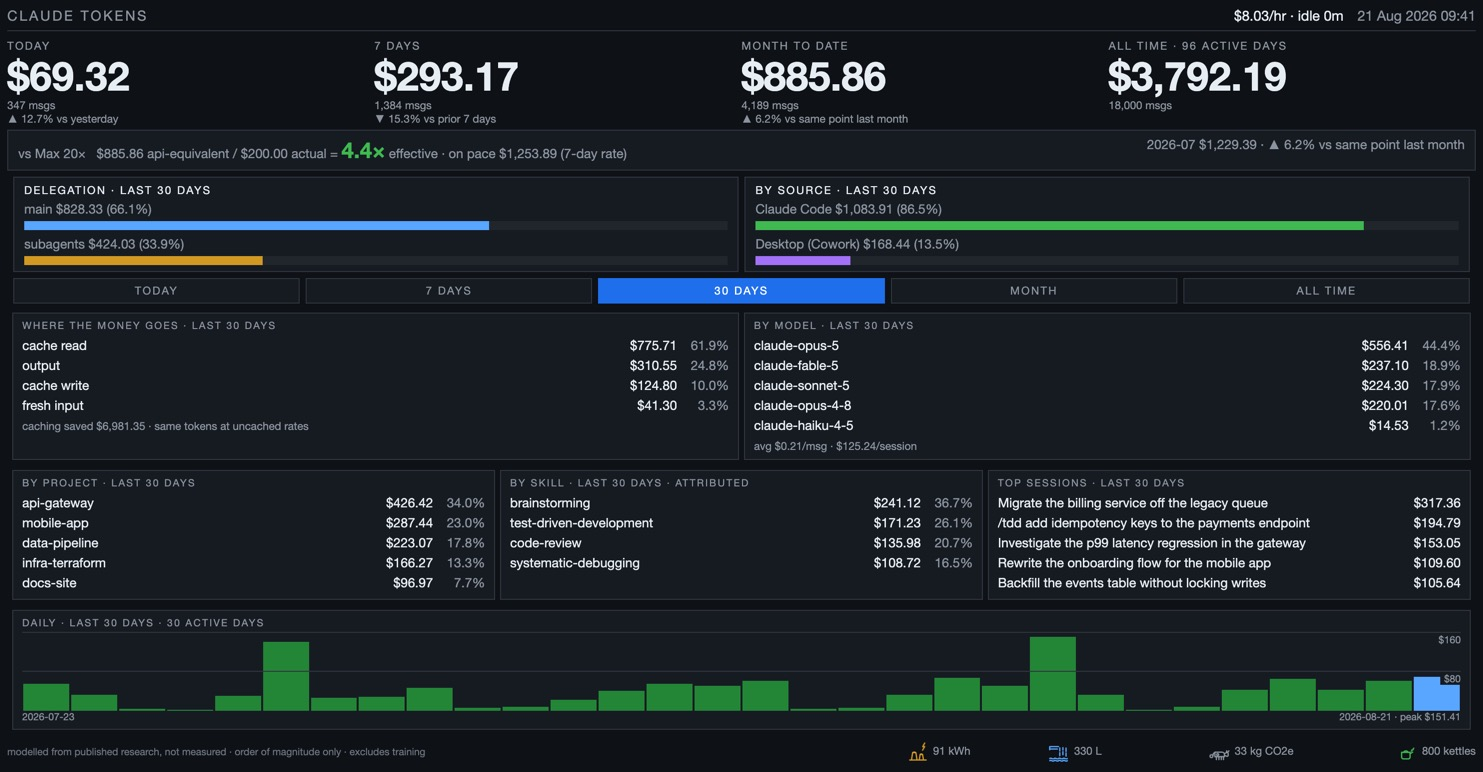
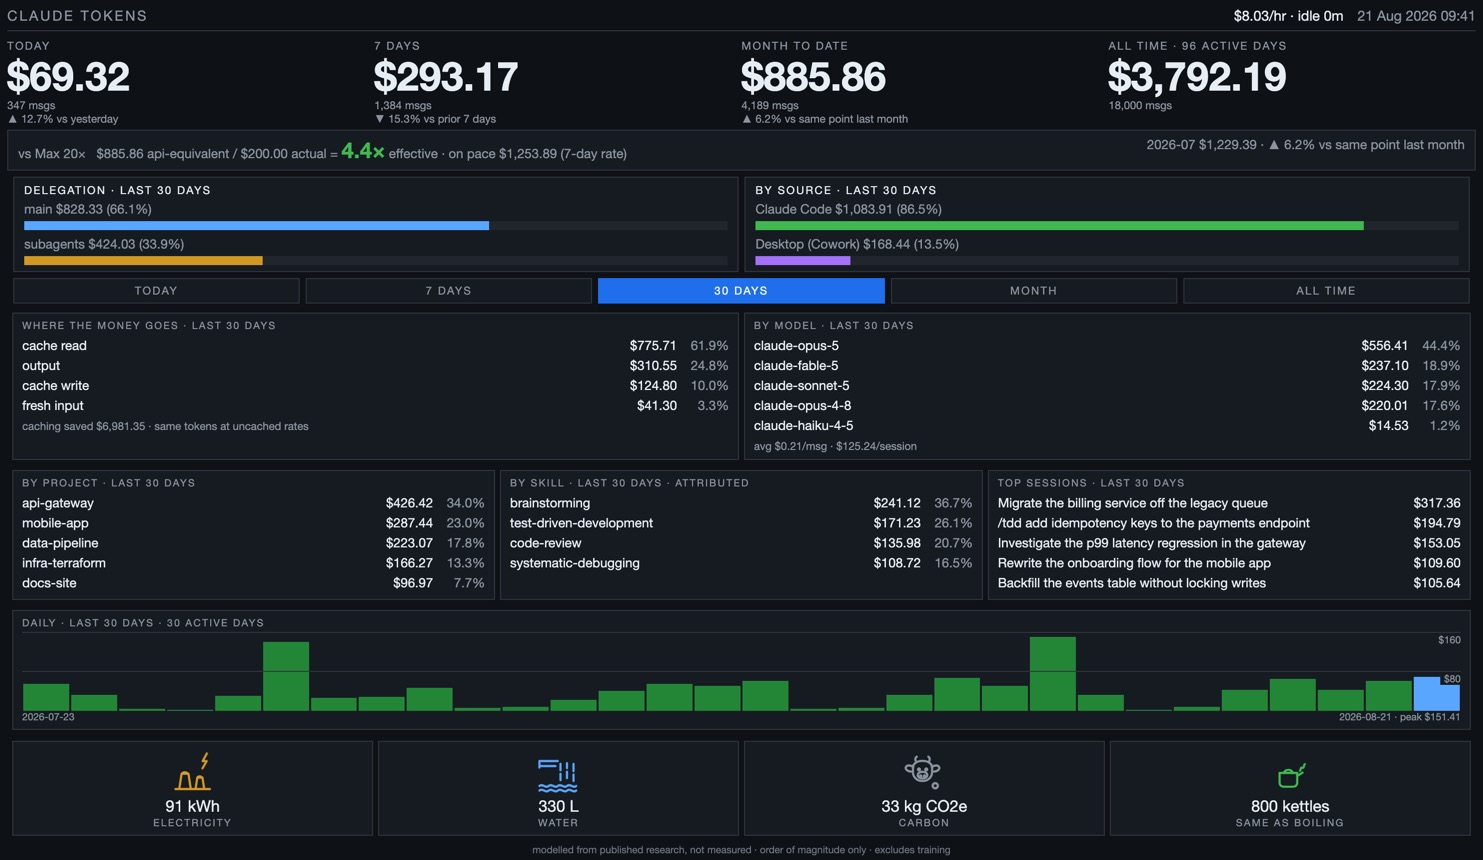
Give each footprint quantity a card and a drawing you can actually see
Four equal cards across the bottom, centre aligned, icons 22px -> 46px,
each with its value and a label. At 22px the drawings were a smudge beside
a number; at 46px they are pictures.

The cow was redrawn twice. Side-on it read as a beetle, then as a hippo —
thin legs and a small head simply vanish at icon size. It is now a head,
face on: ears, horns, eyes, muzzle with nostrils, which survive scaling.
The puff moved to its mouth, because roughly 95% of cattle methane is
belched rather than farted and the accurate version is no less funny.

This breaks the fold, and the README now says so instead of claiming
otherwise. Measured at 1024 wide: 748px before, 840px now, against a 768px
screen. Everything through the daily chart still fits; the cards sit below
it. A compact variant — 34px icons, no labels — measures 815px, so it
sacrifices the legibility this change was for and still does not fit. Given
that, the bigger version is the better trade, and the spec already treats
the fold as soft.

Claude-Session: https://claude.ai/code/session_013xSMFUf1Xu7BGjZfdm5wnH

diff --git a/tests/fixtures/golden_dashboard.html b/tests/fixtures/golden_dashboard.html
@@ -83,11 +83,16 @@ table.daily { position:relative; z-index:1; }
    animation does not run at all, every frame after the first stays hidden
    and you are left with a static line drawing, which is a perfectly good
    outcome and the reason this approach was chosen over a GIF. */
-table.fpstrip { width:100%; border-collapse:collapse; margin-top:6px; }
-.fpnote { font-size:10px; color:#6e7681; text-align:left; vertical-align:middle; }
-.fpitem { font-size:11px; color:#8b949e; text-align:right; vertical-align:middle;
-          white-space:nowrap; padding-left:14px; }
-.fpicon { vertical-align:middle; margin-right:4px; }
+/* Four equal cards, matching the panel chrome above them so the row reads
+   as part of the page rather than as a badge strip bolted on. */
+table.fpstrip { width:100%; table-layout:fixed; border-collapse:separate;
+                border-spacing:5px; margin-top:1px; }
+td.fpcard { background:#161b22; border:1px solid #30363d; padding:7px 4px 6px 4px;
+            text-align:center; vertical-align:top; }
+.fpvalue { font-size:16px; color:#e6edf3; margin-top:2px; white-space:nowrap; }
+.fplabel { font-size:10px; letter-spacing:1.5px; color:#8b949e; margin-top:1px; }
+.fpnote { font-size:10px; color:#6e7681; text-align:center; margin-top:3px; }
+.fpicon { display:block; margin:0 auto; }
 .fpf { opacity:0; }
 .fpf1 { opacity:1; -webkit-animation:fpcycle 1.5s steps(1,end) infinite;
         animation:fpcycle 1.5s steps(1,end) infinite; }
@@ -138,5 +143,5 @@ $41.15/session</div><div class="note">1 unpriced model(s), counted but not coste
 <table class="grid"><tbody>
 <tr><td><h2>DAILY &middot; LAST 30 DAYS &middot; 3 ACTIVE DAYS</h2><div class="chartwrap" style="height:78px"><div class="gridline" style="bottom:39px"><span class="glabel">$15</span></div><div class="gridline" style="bottom:78px"><span class="glabel">$30</span></div><table class="daily" style="height:78px"><tr><td><div class="col" style="height:26px"></div></td><td><div class="col" style="height:66px"></div></td><td><div class="col" style="height:32px"></div></td></tr></table></div><div class="dscale">2026-07-28<span style="float:right">2026-07-30 &middot; peak $25.50</span></div></td></tr>
 </tbody></table>
-<table class="fpstrip"><tbody><tr><td class="fpnote">modelled from published research, not measured &middot; order of magnitude only &middot; excludes training</td><td class="fpitem"><svg class="fpicon" width="22" height="22" viewBox="0 0 24 24" fill="none" stroke="#d29922" stroke-width="1.4" stroke-linecap="round" stroke-linejoin="round" aria-hidden="true"><path d="M3 21h18M5 21l1.2-8h3.6L11 21M13.5 21l.9-6h2.7l.9 6"/><path d="M6.4 13c.6-1 2.4-1 3 0M14.4 15c.5-.8 1.9-.8 2.4 0"/><g class="fpf fpf1"><path d="M19 2l-2.6 4.4h2.4L16.4 11"/></g><g class="fpf fpf2"><path d="M19.4 2.4l-2.2 4h2.1l-2.2 3.8"/></g></svg>2.4 kWh</td><td class="fpitem"><svg class="fpicon" width="22" height="22" viewBox="0 0 24 24" fill="none" stroke="#58a6ff" stroke-width="1.4" stroke-linecap="round" stroke-linejoin="round" aria-hidden="true"><path d="M2 6.4h9.6M2 9h8.4M2 6.4v3.4"/><path d="M2 19.4c1.6-1.5 3.2 1.5 4.8 0s3.2 1.5 4.8 0 3.2 1.5 4.8 0s3.2 1.5 4.8 0"/><path d="M2 21.8c1.6-1.5 3.2 1.5 4.8 0s3.2 1.5 4.8 0 3.2 1.5 4.8 0s3.2 1.5 4.8 0"/><g class="fpf fpf1"><path d="M13 6.6v3.4M16.4 6.6v2.6M19.8 6.6v3.8M13 11.8v3.4M16.4 11v3.4M19.8 12.2v3.4"/></g><g class="fpf fpf2"><path d="M13 7.8v3.4M16.4 7.5v2.6M19.8 7.9v3.8M13 13v3.4M16.4 11.9v3.4M19.8 13.4v3.4"/></g><g class="fpf fpf3"><path d="M13 9v3.4M16.4 8.4v2.6M19.8 9.2v3.8M13 14.2v3.4M16.4 12.8v3.4M19.8 14.6v3.4"/></g></svg>8.7 L</td><td class="fpitem"><svg class="fpicon" width="22" height="22" viewBox="0 0 24 24" fill="none" stroke="#8b949e" stroke-width="1.4" stroke-linecap="round" stroke-linejoin="round" aria-hidden="true"><path d="M6.6 12.4h7.8a2.6 2.6 0 0 1 2.6 2.6v2.4H6.6z"/><path d="M17 14l2.6-1.1a1.1 1.1 0 0 1 1.5 1v2a1.1 1.1 0 0 1-1.5 1L17 15.9M19.1 12.6l.5-1.6M20.9 12.2l1-1.2"/><path d="M8.2 17.4v3.2M11 17.4v3.2M13.6 17.4v3.2M16 17.4v3.2"/><path d="M6.6 12.8c-1.4.3-2.1 1.6-1.8 2.9"/><path d="M9.6 14a1.1 1.1 0 1 0 .1 0"/><g class="fpf fpf1"><path d="M3.6 16.4a1 1 0 1 0 .1 0"/></g><g class="fpf fpf2"><path d="M2.8 15.2a1.6 1.6 0 1 0 .1 0"/></g><g class="fpf fpf3"><path d="M2 13.8a2.2 2.2 0 1 0 .1 0"/></g></svg>884 g CO2e</td><td class="fpitem"><svg class="fpicon" width="22" height="22" viewBox="0 0 24 24" fill="none" stroke="#3fb950" stroke-width="1.4" stroke-linecap="round" stroke-linejoin="round" aria-hidden="true"><path d="M6.4 12.6h9.2v5.2a2 2 0 0 1-2 2H8.4a2 2 0 0 1-2-2z"/><path d="M8.6 12.6a2.6 2.6 0 0 1 4.8 0M15.6 14.2l2.8-1.8"/><g class="fpf fpf1"><path d="M18.6 11c.9-.6.1-1.4 1-2"/></g><g class="fpf fpf2"><path d="M18.6 10c.9-.6.1-1.4 1-2M17 11.4c.7-.5.1-1.1.8-1.6"/></g><g class="fpf fpf3"><path d="M18.6 9c.9-.6.1-1.4 1-2M17 10.4c.7-.5.1-1.1.8-1.6"/></g></svg>20 kettles</td></tr></tbody></table>
+<table class="fpstrip"><tbody><tr><td class="fpcard"><svg class="fpicon" width="46" height="46" viewBox="0 0 24 24" fill="none" stroke="#d29922" stroke-width="1.15" stroke-linecap="round" stroke-linejoin="round" aria-hidden="true"><path d="M3 21h18M5 21l1.2-8h3.6L11 21M13.5 21l.9-6h2.7l.9 6"/><path d="M6.4 13c.6-1 2.4-1 3 0M14.4 15c.5-.8 1.9-.8 2.4 0"/><g class="fpf fpf1"><path d="M19 2l-2.6 4.4h2.4L16.4 11"/></g><g class="fpf fpf2"><path d="M19.4 2.4l-2.2 4h2.1l-2.2 3.8"/></g></svg><div class="fpvalue">2.4 kWh</div><div class="fplabel">ELECTRICITY</div></td><td class="fpcard"><svg class="fpicon" width="46" height="46" viewBox="0 0 24 24" fill="none" stroke="#58a6ff" stroke-width="1.15" stroke-linecap="round" stroke-linejoin="round" aria-hidden="true"><path d="M2 6.4h9.6M2 9h8.4M2 6.4v3.4"/><path d="M2 19.4c1.6-1.5 3.2 1.5 4.8 0s3.2 1.5 4.8 0 3.2 1.5 4.8 0s3.2 1.5 4.8 0"/><path d="M2 21.8c1.6-1.5 3.2 1.5 4.8 0s3.2 1.5 4.8 0 3.2 1.5 4.8 0s3.2 1.5 4.8 0"/><g class="fpf fpf1"><path d="M13 6.6v3.4M16.4 6.6v2.6M19.8 6.6v3.8M13 11.8v3.4M16.4 11v3.4M19.8 12.2v3.4"/></g><g class="fpf fpf2"><path d="M13 7.8v3.4M16.4 7.5v2.6M19.8 7.9v3.8M13 13v3.4M16.4 11.9v3.4M19.8 13.4v3.4"/></g><g class="fpf fpf3"><path d="M13 9v3.4M16.4 8.4v2.6M19.8 9.2v3.8M13 14.2v3.4M16.4 12.8v3.4M19.8 14.6v3.4"/></g></svg><div class="fpvalue">8.7 L</div><div class="fplabel">WATER</div></td><td class="fpcard"><svg class="fpicon" width="46" height="46" viewBox="0 0 24 24" fill="none" stroke="#8b949e" stroke-width="1.15" stroke-linecap="round" stroke-linejoin="round" aria-hidden="true"><path d="M6 9.8c0-2.1 2.2-3.5 5-3.5s5 1.4 5 3.5v2.3c0 2.7-2.2 4.7-5 4.7s-5-2-5-4.7z"/><path d="M6.2 9.4c-1.9-1.1-3.5-.9-3.9.2s.8 2.1 2.7 2.3"/><path d="M15.8 9.4c1.9-1.1 3.5-.9 3.9.2s-.8 2.1-2.7 2.3"/><path d="M7.7 6.9c-.7-1.3-.5-2.3.3-2.8M14.3 6.9c.7-1.3.5-2.3-.3-2.8"/><path d="M9.1 10.3a.5 .5 0 1 0 .1 0M12.9 10.3a.5 .5 0 1 0 .1 0"/><path d="M8.5 13.7c0-1 1.1-1.7 2.5-1.7s2.5.7 2.5 1.7-1.1 1.8-2.5 1.8-2.5-.8-2.5-1.8z"/><path d="M10 13.9a.35 .35 0 1 0 .1 0M12 13.9a.35 .35 0 1 0 .1 0"/><g class="fpf fpf1"><path d="M15.6 17.6a.85 .85 0 1 0 .1 0"/></g><g class="fpf fpf2"><path d="M17.6 17.9a1.35 1.35 0 1 0 .1 0"/></g><g class="fpf fpf3"><path d="M19.9 17.5a1.95 1.95 0 1 0 .1 0"/></g></svg><div class="fpvalue">884 g CO2e</div><div class="fplabel">CARBON</div></td><td class="fpcard"><svg class="fpicon" width="46" height="46" viewBox="0 0 24 24" fill="none" stroke="#3fb950" stroke-width="1.15" stroke-linecap="round" stroke-linejoin="round" aria-hidden="true"><path d="M6.4 12.6h9.2v5.2a2 2 0 0 1-2 2H8.4a2 2 0 0 1-2-2z"/><path d="M8.6 12.6a2.6 2.6 0 0 1 4.8 0M15.6 14.2l2.8-1.8"/><g class="fpf fpf1"><path d="M18.6 11c.9-.6.1-1.4 1-2"/></g><g class="fpf fpf2"><path d="M18.6 10c.9-.6.1-1.4 1-2M17 11.4c.7-.5.1-1.1.8-1.6"/></g><g class="fpf fpf3"><path d="M18.6 9c.9-.6.1-1.4 1-2M17 10.4c.7-.5.1-1.1.8-1.6"/></g></svg><div class="fpvalue">20 kettles</div><div class="fplabel">SAME AS BOILING</div></td></tr></tbody></table><div class="fpnote">modelled from published research, not measured &middot; order of magnitude only &middot; excludes training</div>
 </body></html>

diff --git a/dashboard/render_html.py b/dashboard/render_html.py
@@ -101,11 +101,16 @@ table.daily { position:relative; z-index:1; }
    animation does not run at all, every frame after the first stays hidden
    and you are left with a static line drawing, which is a perfectly good
    outcome and the reason this approach was chosen over a GIF. */
-table.fpstrip { width:100%; border-collapse:collapse; margin-top:6px; }
-.fpnote { font-size:10px; color:#6e7681; text-align:left; vertical-align:middle; }
-.fpitem { font-size:11px; color:#8b949e; text-align:right; vertical-align:middle;
-          white-space:nowrap; padding-left:14px; }
-.fpicon { vertical-align:middle; margin-right:4px; }
+/* Four equal cards, matching the panel chrome above them so the row reads
+   as part of the page rather than as a badge strip bolted on. */
+table.fpstrip { width:100%; table-layout:fixed; border-collapse:separate;
+                border-spacing:5px; margin-top:1px; }
+td.fpcard { background:#161b22; border:1px solid #30363d; padding:7px 4px 6px 4px;
+            text-align:center; vertical-align:top; }
+.fpvalue { font-size:16px; color:#e6edf3; margin-top:2px; white-space:nowrap; }
+.fplabel { font-size:10px; letter-spacing:1.5px; color:#8b949e; margin-top:1px; }
+.fpnote { font-size:10px; color:#6e7681; text-align:center; margin-top:3px; }
+.fpicon { display:block; margin:0 auto; }
 .fpf { opacity:0; }
 .fpf1 { opacity:1; -webkit-animation:fpcycle 1.5s steps(1,end) infinite;
         animation:fpcycle 1.5s steps(1,end) infinite; }
@@ -436,16 +441,24 @@ _ICONS = {
     # flank is doing most of the work of saying "cow" at 22 pixels.
     "carbon": (
         "#8b949e",
-        '<path d="M6.6 12.4h7.8a2.6 2.6 0 0 1 2.6 2.6v2.4H6.6z"/>'
-        '<path d="M17 14l2.6-1.1a1.1 1.1 0 0 1 1.5 1v2a1.1 1.1 0 0 1-1.5 1'
-        'L17 15.9M19.1 12.6l.5-1.6M20.9 12.2l1-1.2"/>'
-        '<path d="M8.2 17.4v3.2M11 17.4v3.2M13.6 17.4v3.2M16 17.4v3.2"/>'
-        '<path d="M6.6 12.8c-1.4.3-2.1 1.6-1.8 2.9"/>'
-        '<path d="M9.6 14a1.1 1.1 0 1 0 .1 0"/>',
+        # A cow's head, face on. The side view read as a hippo at this size —
+        # thin legs and a small head vanish, while ears, horns and a muzzle
+        # survive. The puff comes from the mouth rather than the other end
+        # because roughly 95% of cattle methane is belched, not farted, and
+        # the accurate version is no less funny.
+        '<path d="M6 9.8c0-2.1 2.2-3.5 5-3.5s5 1.4 5 3.5v2.3c0 2.7-2.2 4.7-5 4.7'
+        's-5-2-5-4.7z"/>'
+        '<path d="M6.2 9.4c-1.9-1.1-3.5-.9-3.9.2s.8 2.1 2.7 2.3"/>'
+        '<path d="M15.8 9.4c1.9-1.1 3.5-.9 3.9.2s-.8 2.1-2.7 2.3"/>'
+        '<path d="M7.7 6.9c-.7-1.3-.5-2.3.3-2.8M14.3 6.9c.7-1.3.5-2.3-.3-2.8"/>'
+        '<path d="M9.1 10.3a.5 .5 0 1 0 .1 0M12.9 10.3a.5 .5 0 1 0 .1 0"/>'
+        '<path d="M8.5 13.7c0-1 1.1-1.7 2.5-1.7s2.5.7 2.5 1.7-1.1 1.8-2.5 1.8'
+        "-2.5-.8-2.5-1.8z\"/>"
+        '<path d="M10 13.9a.35 .35 0 1 0 .1 0M12 13.9a.35 .35 0 1 0 .1 0"/>',
         (
-            '<path d="M3.6 16.4a1 1 0 1 0 .1 0"/>',
-            '<path d="M2.8 15.2a1.6 1.6 0 1 0 .1 0"/>',
-            '<path d="M2 13.8a2.2 2.2 0 1 0 .1 0"/>',
+            '<path d="M15.6 17.6a.85 .85 0 1 0 .1 0"/>',
+            '<path d="M17.6 17.9a1.35 1.35 0 1 0 .1 0"/>',
+            '<path d="M19.9 17.5a1.95 1.95 0 1 0 .1 0"/>',
         ),
     ),
     # A kettle with steam climbing off the spout.
@@ -462,6 +475,12 @@ _ICONS = {
 }
 
 
+#: Rendered size of a footprint drawing. Large enough to be readable as a
+#: picture from across a room rather than as a smudge next to a number —
+#: which is what 22px turned out to be.
+ICON_PX = 46
+
+
 def _icon(kind: str) -> str:
     colour, outline, frames = _ICONS[kind]
     animated = "".join(
@@ -469,9 +488,12 @@ def _icon(kind: str) -> str:
         for index, frame in enumerate(frames, start=1)
         if frame
     )
+    # Stroke width is in user units, so it scales with the box. 1.15 at 46px
+    # renders about 2.2 device px — a drawn line rather than a slab.
     return (
-        '<svg class="fpicon" width="22" height="22" viewBox="0 0 24 24" '
-        f'fill="none" stroke="{colour}" stroke-width="1.4" '
+        f'<svg class="fpicon" width="{ICON_PX}" height="{ICON_PX}" '
+        'viewBox="0 0 24 24" '
+        f'fill="none" stroke="{colour}" stroke-width="1.15" '
         'stroke-linecap="round" stroke-linejoin="round" '
         'aria-hidden="true">'
         f"{outline}{animated}</svg>"
@@ -509,19 +531,21 @@ def _footprint_note(view: RangeView) -> str:
         return ""
     boils = fp.kettle_boils
     items = (
-        ("energy", _one_sig_fig(fp.kwh, "kWh", "Wh", 1000)),
-        ("water", _one_sig_fig(fp.litres, "L", "mL", 1000)),
-        ("carbon", _one_sig_fig(fp.g_co2e / 1000, "kg CO2e", "g CO2e", 1000)),
-        ("kettle", _kettles(boils).replace(" boiled", "")),
+        ("energy", _one_sig_fig(fp.kwh, "kWh", "Wh", 1000), "ELECTRICITY"),
+        ("water", _one_sig_fig(fp.litres, "L", "mL", 1000), "WATER"),
+        ("carbon", _one_sig_fig(fp.g_co2e / 1000, "kg CO2e", "g CO2e", 1000), "CARBON"),
+        ("kettle", _kettles(boils).replace(" boiled", ""), "SAME AS BOILING"),
     )
     cells = "".join(
-        f'<td class="fpitem">{_icon(kind)}{value}</td>' for kind, value in items
+        f'<td class="fpcard">{_icon(kind)}'
+        f'<div class="fpvalue">{value}</div>'
+        f'<div class="fplabel">{label}</div></td>'
+        for kind, value, label in items
     )
     return (
-        '<table class="fpstrip"><tbody><tr>'
-        '<td class="fpnote">modelled from published research, not measured '
-        "&middot; order of magnitude only &middot; excludes training</td>"
-        f"{cells}</tr></tbody></table>"
+        f'<table class="fpstrip"><tbody><tr>{cells}</tr></tbody></table>'
+        '<div class="fpnote">modelled from published research, not measured '
+        "&middot; order of magnitude only &middot; excludes training</div>"
     )
 
 

diff --git a/tests/test_footprint.py b/tests/test_footprint.py
@@ -109,10 +109,7 @@ def test_an_unpriced_model_still_has_a_footprint():
 
 def _strip_values(out: str) -> list[str]:
     """The four values in the footprint strip, without their icons."""
-    return [
-        v.strip()
-        for v in re.findall(r'<td class="fpitem">.*?</svg>([^<]*)</td>', out, re.S)
-    ]
+    return [v.strip() for v in re.findall(r'<div class="fpvalue">([^<]*)</div>', out)]
 
 
 def test_the_page_never_shows_more_than_one_significant_figure():
@@ -169,11 +166,26 @@ def test_the_page_refuses_the_indefensible_framings(framing):
 
 # --- the illustrated strip ----------------------------------------------
 
+def test_each_card_is_a_quarter_of_the_width():
+    """Four equal cards, so the row reads as a set rather than as whichever
+    number happened to be longest."""
+    data = aggregate.build([rec("m1", output_tokens=5_000_000)], {}, now=NOW)
+    out = render_html.render(data)
+    assert "table.fpstrip { width:100%; table-layout:fixed;" in out
+    assert out.count('<td class="fpcard">') == 4
+
+
+def test_the_drawings_are_big_enough_to_read():
+    """22px was a smudge beside a number. These are pictures."""
+    assert render_html.ICON_PX >= 40
+
+
 def test_all_four_quantities_get_a_drawing():
     data = aggregate.build([rec("m1", output_tokens=5_000_000)], {}, now=NOW)
     out = render_html.render(data)
-    assert out.count('<td class="fpitem">') == 4
+    assert out.count('<td class="fpcard">') == 4
     assert out.count('class="fpicon"') == 4
+    assert out.count('<div class="fplabel">') == 4
 
 
 def test_the_animation_degrades_to_a_static_drawing():

diff --git a/README.md b/README.md
@@ -117,10 +117,14 @@ properties, no `rem` units and no usable ES5 — so the layout is tables and
 that as a compatibility lint, so it cannot quietly regress. If it renders
 there, it renders anywhere.
 
-The page is laid out for a width of **1024** and is **748px tall**, so all of
-it fits a 1024×768 screen without scrolling. Measured in a 1024-wide frame,
-not estimated — it was 875px before the panels were rearranged into full
-rows.
+The page is laid out for a width of **1024** and is **840px tall**, measured
+in a 1024-wide frame rather than estimated. Everything down to and including
+the daily chart fits a 1024×768 screen; the four footprint cards at the
+bottom sit just below the fold and need a short scroll. That was a deliberate
+trade — the drawings are only worth having if they are big enough to read,
+and at 34px they were not. Drop `ICON_PX` in `render_html.py` and remove the
+card labels if you would rather have the fold back; that measures 815px, so
+it does not buy the fold either.
 
 ### 2. A Raspberry Pi driving a small screen
 
